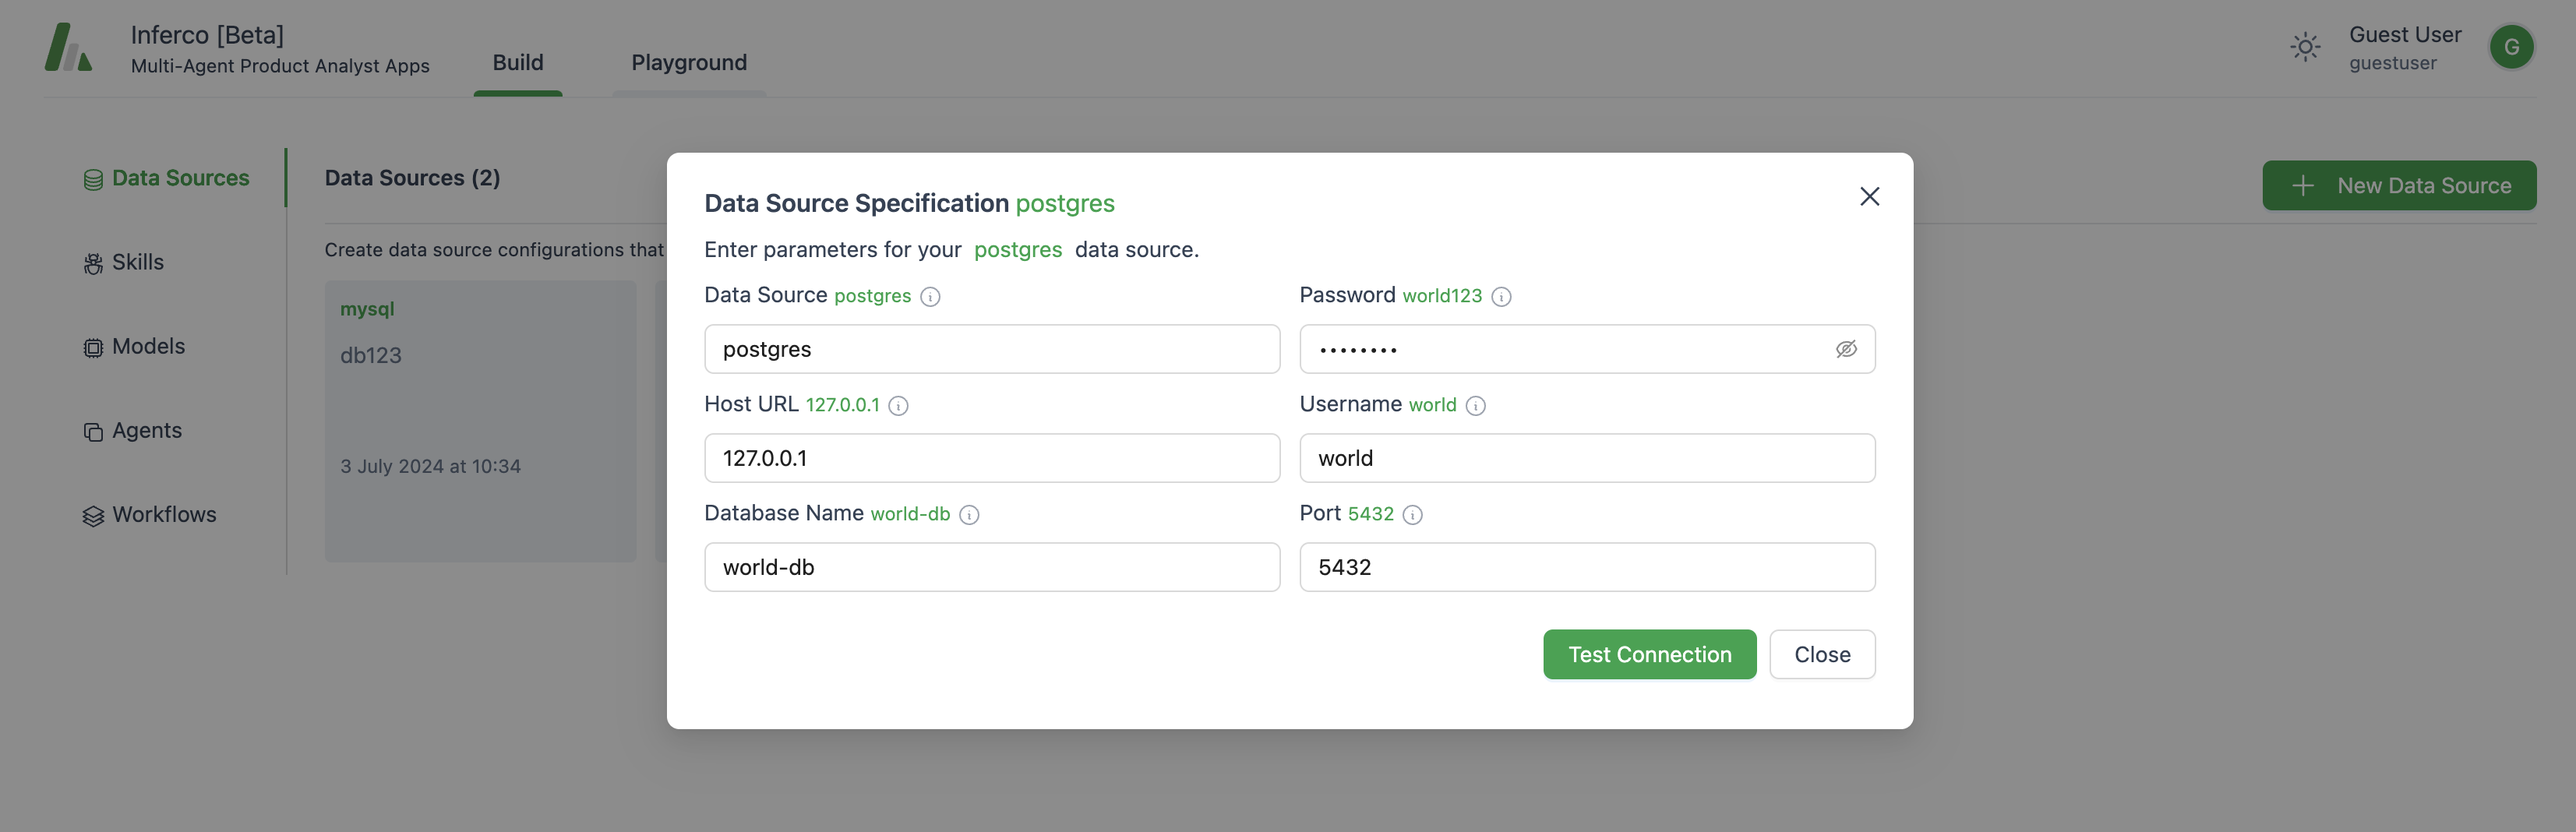
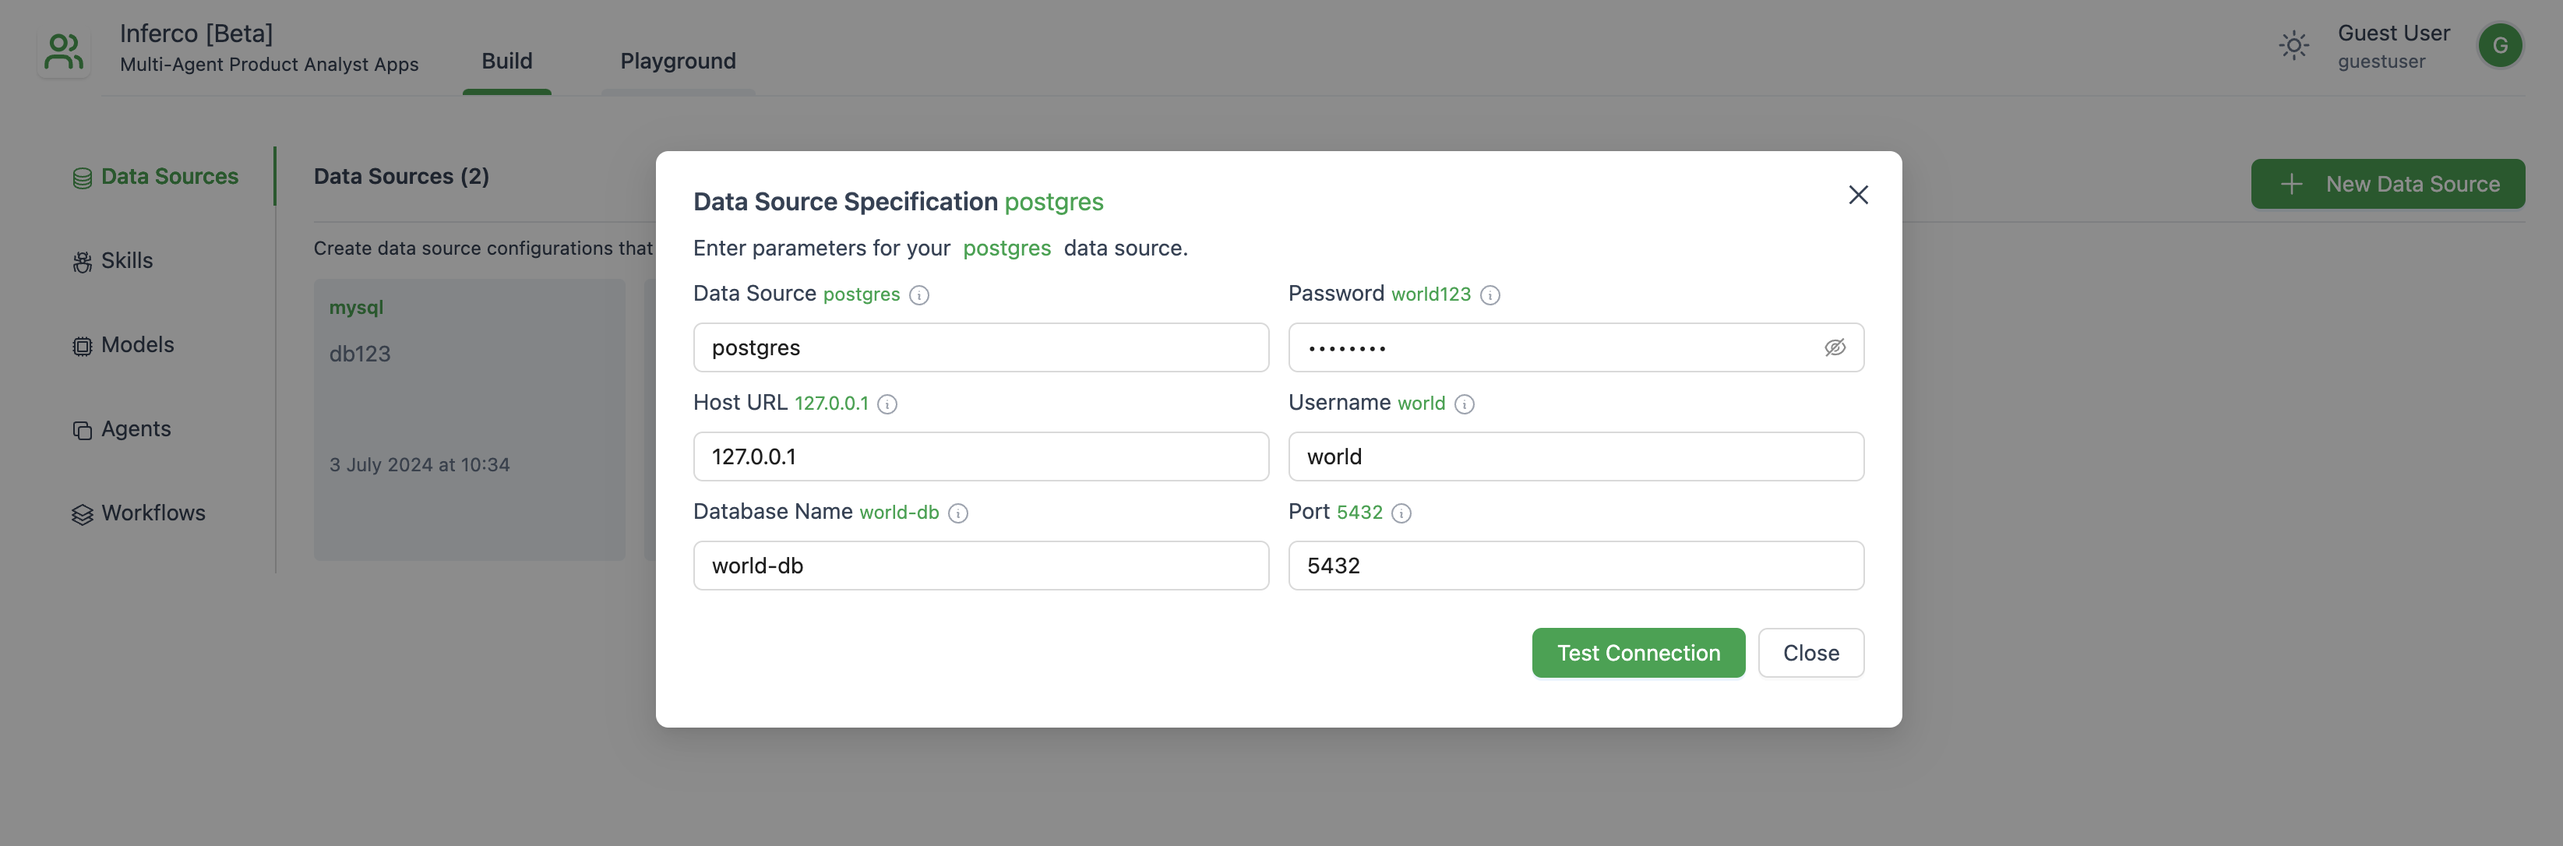
Update README.md

diff --git a/frontend/src/components/icons.tsx b/frontend/src/components/icons.tsx
@@ -1,4 +1,5 @@
 import * as React from "react";
+import AppIconSVG from "/src/images/icon.svg";
 
 type Props = {
   icon: string;
@@ -204,25 +205,7 @@ const Icon = ({ icon = "app", size = 4, className = "" }: Props) => {
   }
   if (icon === "app") {
     return (
-      <svg
-        className={` ${sizeClass} inline-block  `}
-        xmlns="http://www.w3.org/2000/svg"
-        fill="currentColor"
-        viewBox="0 0 93 90"
-      >
-        <path
-          d="M44.0471 0H31.0006C28.3399 0 25.997 1.75225 25.2451 4.30449L2.26702 82.3045C1.13478 86.1479 4.01575 90 8.02249 90H21.776C24.4553 90 26.8098 88.2236 27.5454 85.6473L49.8165 7.64732C50.9108 3.81465 48.0329 0 44.0471 0Z"
-          fill="#3F9447"
-        />
-        <path
-          d="M61.8267 39H51.7524C49.9425 39 48.3581 40.2153 47.8891 41.9634L36.3514 84.9634C35.6697 87.5042 37.5841 90 40.2148 90H50.644C52.4654 90 54.0568 88.7695 54.5153 87.0068L65.6979 44.0068C66.3568 41.4731 64.4446 39 61.8267 39Z"
-          fill="#D9D9D9"
-        />
-        <path
-          d="M90.1629 84.234L77.2698 58.0311C77.0912 57.668 76.8537 57.337 76.5672 57.0514C74.5514 55.0426 71.1154 55.9917 70.4166 58.7504L63.7622 85.0177C63.1219 87.5453 65.0322 90 67.6397 90H86.5738C89.5362 90 91.4707 86.8921 90.1629 84.234Z"
-          fill="#3F9447"
-        />
-      </svg>
+      <img src={AppIconSVG} alt="Inferco Icon SVG" />
     );
   }
 

diff --git a/frontend/src/components/atoms.tsx b/frontend/src/components/atoms.tsx
@@ -74,9 +74,8 @@ export const IconButton = ({
     <span
       role={"button"}
       onClick={onClick}
-      className={`inline-block mr-2 hover:text-accent transition duration-300 ${className} ${
-        active ? "border-accent border rounded text-accent" : ""
-      }`}
+      className={`inline-block mr-2 hover:text-accent transition duration-300 ${className} ${active ? "border-accent border rounded text-accent" : ""
+        }`}
     >
       {icon}
     </span>
@@ -168,9 +167,8 @@ export const CollapseBox = ({
         onClick={() => {
           setIsOpen(!isOpen);
         }}
-        className={`cursor-pointer bg-secondary p-2 rounded ${
-          isOpen ? "rounded-b-none " : " "
-        }"}`}
+        className={`cursor-pointer bg-secondary p-2 rounded ${isOpen ? "rounded-b-none " : " "
+          }"}`}
       >
         {isOpen && <ChevronUpIcon className={chevronClass} />}
         {!isOpen && <ChevronDownIcon className={chevronClass} />}
@@ -620,9 +618,8 @@ export const ImageLoader = ({
       <img
         alt="Dynamic content"
         src={src}
-        className={`w-full  rounded ${
-          isLoading ? "opacity-0" : "opacity-100"
-        } ${className}`}
+        className={`w-full  rounded ${isLoading ? "opacity-0" : "opacity-100"
+          } ${className}`}
         onLoad={() => setIsLoading(false)}
       />
     </div>

diff --git a/frontend/gatsby-config.ts b/frontend/gatsby-config.ts
@@ -18,7 +18,7 @@ const config: GatsbyConfig = {
   siteMetadata: {
     title: `Inferco [Beta]`,
     description: `Multi-Agent Product Analyst Apps`,
-    siteUrl: `http://example.com`,
+    siteUrl: `https://github.com/NickLeoMartin/inferco`,
   },
   flags: {
     LAZY_IMAGES: true,
@@ -30,12 +30,12 @@ const config: GatsbyConfig = {
     "gatsby-plugin-image",
     "gatsby-plugin-sitemap",
     "gatsby-plugin-postcss",
-    // {
-    //   resolve: "gatsby-plugin-manifest",
-    //   options: {
-    //     icon: "src/images/icon.png",
-    //   },
-    // },
+    {
+      resolve: "gatsby-plugin-manifest",
+      options: {
+        icon: "src/images/icon.svg",
+      },
+    },
     "gatsby-plugin-mdx",
     "gatsby-plugin-sharp",
     "gatsby-transformer-sharp",

diff --git a/frontend/src/components/utils.ts b/frontend/src/components/utils.ts
@@ -583,11 +583,6 @@ export const examplePrompts = [
     prompt:
       "paint a picture of a glass of ethiopian coffee, freshly brewed in a tall glass cup, on a table right in front of a lush green forest scenery",
   },
-  {
-    title: "Travel",
-    prompt:
-      "Plan a 2 day trip to hawaii. Limit to 3 activities per day, be as brief as possible!",
-  },
 ];
 
 export const fetchVersion = () => {

diff --git a/README.md b/README.md
@@ -1,53 +1,101 @@
+<div align="center">
+
+<img width="100px" src="docs/icon-inferco.png" />
+
 # Inferco
 
-![Playground](./docs/inferco-playground.png)
+### An AI Product Analyst Assistant App
 
-Inferco is an app for builders to understand how customers use their product. Engineers, PMs & analysts struggle every day to answer important questions with the data in their tools & systems - jeopardizing their success. Ultimately, there are massive gains in productivity to be made here.
+<p>
+<img alt="GitHub Contributors" src="https://img.shields.io/github/contributors/NickLeoMartin/inferco" />
+<img alt="GitHub Last Commit" src="https://img.shields.io/github/last-commit/NickLeoMartin/inferco" />
+<img alt="" src="https://img.shields.io/github/repo-size/NickLeoMartin/inferco" />
+<img alt="GitHub Issues" src="https://img.shields.io/github/issues/NickLeoMartin/inferco" />
+<img alt="GitHub Pull Requests" src="https://img.shields.io/github/issues-pr/NickLeoMartin/inferco" />
+<img alt="GitHub License" src="https://img.shields.io/badge/License-MIT-yellow.svg" />
+</p>
 
-> "What if... every employee can think up and answer business questions immediately? Instead of waiting for the BI analyst to get back to them next week. 
+</div>
 
-> "What if... creating a customer retention analysis segmented by payment plan was as simple as writing a message to a Slack bot?"
+-----
 
-Then everyone is closer to the truth & the velocity of informed decision-making increases.
+<p align="center">
+  <a href="#-demo">Demo</a> •
+  <a href="#-use-cases">Use cases</a> •
+  <a href="#-features">Features</a> •
+  <a href="#-installation" target="_blank">Installation</a> •
+  <a href="#-tutorial" target="_blank">Tutorial</a> •
+  <a href="#-contributions" target="_blank">Contributions</a>
+</p>
 
-> **Note**: This is meant to help you rapidly prototype multi-agent workflows and demonstrate an example of end user interfaces built with [AutoGen](https://microsoft.github.io/autogen) and has borrowed liberally from the Autogen Studio project. It is not meant to be a production-ready app.
+-----
 
+Inferco enables any developer to use powerful AI assistants to know how customers use their applications. These assistants use large language models (LLMs), data sources and a local machine to write & execute complex data analysis in minutes.
 
-### Project Structure:
+> [!WARNING]
+> **Note**: Currently, this is meant to help you rapidly prototype multi-agent workflows and demonstrate an example of end user interfaces built with [AutoGen](https://microsoft.github.io/autogen) and forked the Autogen Studio project - which is awesome but lacks security features, data sources etc. If you like this, check Autogen out. It is not meant to be a production-ready app.
 
-- _inferco/_ code for the backend classes and web api (FastAPI)
-- _frontend/_ code for the webui, built with Gatsby and TailwindCSS
+-----
 
-### Installation
+## 🎥 Demo (TBD)
 
-Currently, only installation from source is supported.
+![Playground](./docs/demo-playground.png)
 
-**Install from Source**
+## ✨ Use cases
 
-    > Note: This approach requires some familiarity with building interfaces in React.
+Inferco lets you author specialist AI workflows to accomplish any product analysis you want, including:
 
-    If you prefer to install from source, ensure you have Python 3.10+ and Node.js (version above 14.15.0) installed. Here's how you get started:
+- Product KPIs
+- Acquisition drivers
+- User engagement
+- Feature adoption & retention
+- Marketing analytics
+- Monetization drivers
+- Qualitative analysis of user research / surveys / feedback rivers
 
-    - Clone the Inferco repository, create a python virtual environment & install its Python dependencies:
+## 👀 Features
 
-      ```bash
-      python3 -m venv .venv
-      source .venv/bin/activate
-      ```
+Covered:
+- SOTA open & closed Source models
+- Data Sources: PostgreSQL
+- Local code execution in virtual environment or Docker
+- Multi-agent workflows
+- Function calling for supported models
+- Agent-driven error correction
 
-      ```bash
-      pip install -e .
-      ```
+Next up:
+- Secure credential management (nothing shared with third-parties)
+- Data Sources: files, APIs & more databases
+- Selectively append database table definitons to prompt
+- Web browsing
+- 3-5 agent groupchat workflow
 
-    - Navigate to the `samples/apps/inferco/frontend` directory, install dependencies, and build the UI:
+## 📋 Installation
 
-      ```bash
-      npm install -g gatsby-cli
-      npm install --global yarn
-      cd frontend
-      yarn install
-      yarn build
-      ```
+Currently, only installation from source is supported. A PyPi package will follow, if there is demand.
+
+### Install from Source
+
+> Note: This approach requires some familiarity with building interfaces in React.
+
+If you prefer to install from source, ensure you have Python 3.10+ and Node.js (version above 14.15.0) installed. Here's how you get started:
+
+Clone the Inferco repository, create a python virtual environment & install its Python dependencies:
+```bash
+python3 -m venv .venv
+source .venv/bin/activate
+pip install -e .
+```
+
+Navigate to the `frontend` directory, install dependencies, and build the UI:
+
+```bash
+npm install -g gatsby-cli
+npm install --global yarn
+cd frontend
+yarn install
+yarn build
+```
 
 For Windows users, to build the frontend, you may need alternative commands to build the frontend.
 
@@ -97,7 +145,7 @@ The "Data Engineer" Workflow consists of 2 agents: a Data Engineer Agent & a Use
 
 To use this workflow, navigate to "Playground" tab and create a new chat session. When prompting, there is an option to specify a pre-configured Data Source connection that the model will use to when it requires credentials.
 
-### Tutorial
+## 🧐 Tutorial
 
 1. Run the following docker container with a local PostgreSQL database instance:
 ```bash
@@ -109,27 +157,27 @@ docker run -d -p 5432:5432 ghusta/postgres-world-db:2.11
 Ping the postgres database to check if we can connect. Then get the postgres database schema using the function call. Use the following credentials: username: world password: world123 host: 127.0.0.1 port: 5432 db-name: world-db
 ```
 
-![1st Prompt](docs/1st%20prompt.png)
+![1st Prompt](docs/tutorial/1st%20prompt.png)
 
 4. 2nd prompt:
 ```txt
 Query the database to make a bar graph of the top 10 countries by population in Africa. Save this bar graph
 ```
 
-![2nd Prompt](docs/2nd%20prompt.png)
+![2nd Prompt](docs/tutorial/2nd%20prompt.png)
 
 5. 3rd prompt: 
 ```txt
 Query the database and write a linear regression model to predict a countries population given gnp, surface_area, indep_year & life_expectancy. Report the model weights and interpret them.
 ```
 
-![3rd Prompt](docs/3rd%20prompt.png)
+![3rd Prompt](docs/tutorial/3rd%20prompt.png)
 
 6. 4th prompt:
 ```txt
 Query the database to find the correlation between population and life expectancy. Create a scatter plot of countries and save it.
 ```
-![4th Prompt](docs/4th%20prompt.png)
+![4th Prompt](docs/tutorial/4th%20prompt.png)
 
 ### Extra Credit
 
@@ -144,3 +192,10 @@ To add a skill:
 
 ![Postgres Data Source](docs/postgres-data-source.png)
 
+## 🫶 Contributions:
+
+Inferco is an open-source project, and contributions are welcome. If you want to contribute, you can create new features, fix bugs, or improve the infrastructure.
+
+<a href="https://github.com/nickleomartin/inferco/graphs/contributors">
+  <img src="https://contrib.rocks/image?repo=nickleomartin/inferco" />
+</a>
